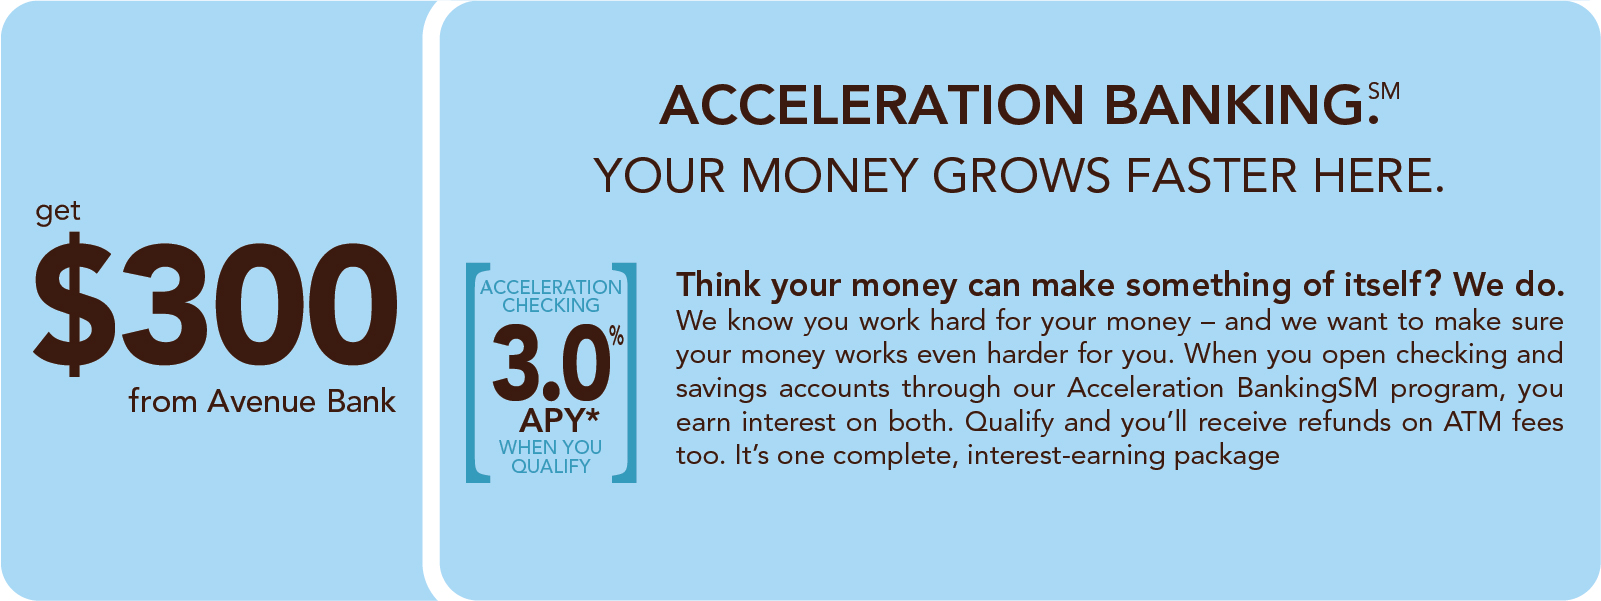
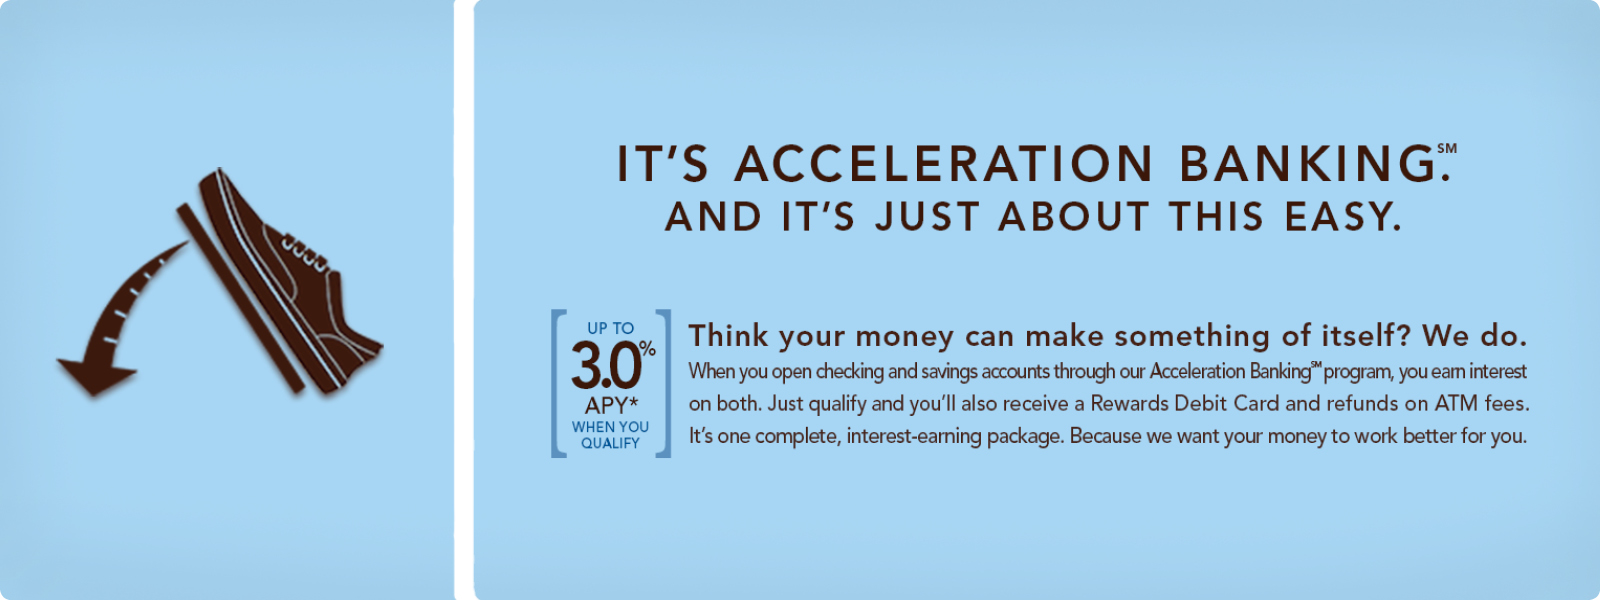
remove get 00 offer

diff --git a/acceleration.html b/acceleration.html
@@ -71,7 +71,7 @@
             </div><!- row -->
 
             <div class="row spacer">
-            	<p>*Annual Percentage Yield accurate as of 2/9/18. Variable rate accounts. Interest rates subject to change. Fees may reduce earnings. Accounts closed within 6 months of opening date are subject to a $75.00 closing fee. Limit one Acceleration Checking and Acceleration Savings account per primary social security number. Acceleration Checking: Minimum balance to open account $100. Customer must set up e-statements through online banking, establish a monthly direct deposit and perform 12 debit card purchases each month to “qualify” and receive tiered rates and ATM surcharge refunds up to $12. Transactions may take one or more business days to post and clear the account. Checking account balances of $0.00-$10,000.00 (3.00% APY); $10,000.01 and above (.25% APY). If qualifications are not met, all funds in checking account earn .05% APY. $300.00 bonus offer limited to new Acceleration Checking accounts opened between 2/12/18 and 3/30/18. To receive the bonus Acceleration Checking “qualifications” must be met the first two consecutive months after account opening. Cash bonus will be deposited into the account following the third statement cycle by the 10th of the month. Cash bonus considered income and reportable on IRS Form 1099-INT. If Acceleration Savings is also opened, interest earned on Acceleration Checking is automatically transferred to Acceleration Savings and then compounds at Acceleration Savings rates. Acceleration Savings: Account can only be opened in conjunction with Acceleration Checking account. Savings account balances of $0.00-$10,000.00 (.50% APY); $10,000.01 and above (.25% APY). If qualifications of Acceleration Checking account are not met during the month, all funds in Savings account earn .05% APY.
+            	<p>*Annual Percentage Yield accurate as of 3/31/18. Variable rate accounts and interest rates are subject to change. Fees may reduce earnings. Accounts closed within 6 months of opening date are subject to a $25.00 closing fee. Limit one Acceleration Checking and Acceleration Savings account per primary social security number. Acceleration Checking: Minimum balance to open account $100. Customer must initiate set up of e-statements through online banking, establish a monthly direct deposit and perform 12 debit card purchases each month to qualify and receive tiered rates and ATM surcharge refunds up to $12. Transactions may take one or more business days from the date transaction was made to post and clear the account. Checking account balances of $0.00-$10,000.00 (2.50% APY); $10,000.01 and above (.25% APY). If qualifications are not met, all funds in checking account earn .05% APY. If Acceleration Savings is also opened, interest earned on Acceleration Checking is automatically transferred to Acceleration Savings and then compounds at Acceleration Savings rates. Acceleration Savings: Account can only be opened in conjunction with Acceleration Checking account. Savings account balances of $0.00-$10,000.00 (.50% APY); $10,000.01 and above (.25% APY). If qualifications of Acceleration Checking account are not met during the month, all funds in Savings account earn .05% APY.
               </p>
             </div><!-- row -->
           </div>

diff --git a/index.html b/index.html
@@ -26,14 +26,11 @@
                             <li data-target="#homepage-feature" data-slide-to="0" class="active"></li>
                             <li data-target="#homepage-feature" data-slide-to="1"></li>
                             <li data-target="#homepage-feature" data-slide-to="2"></li>
-                            <li data-target="#homepage-feature" data-slide-to="3"></li>
+                            <!-- <li data-target="#homepage-feature" data-slide-to="3"></li> -->
                         </ol>
                         <!-- Wrapper for slides -->
                         <div class="carousel-inner">
                           <div class="item active">
-                            <a href="acceleration.html"><img src="img/accel_offer.jpg" alt="Offer for $300"></a>
-                          </div>
-                          <div class="item">
                             <a href="savings.html#moneymarket"><img src="img/MM-CD_Carousel_AveBank.jpg" alt="Money Market Special Offer"></a>
                           </div>
                           <div class="item">
